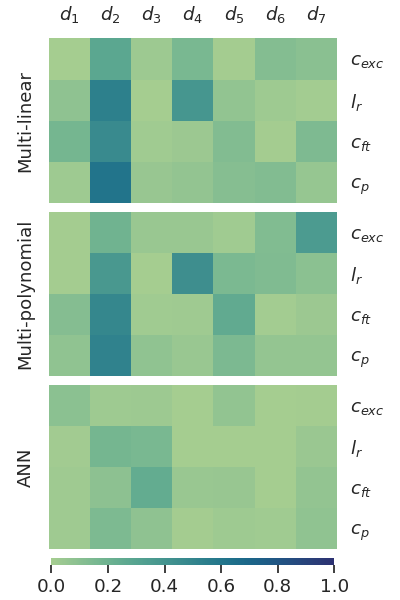
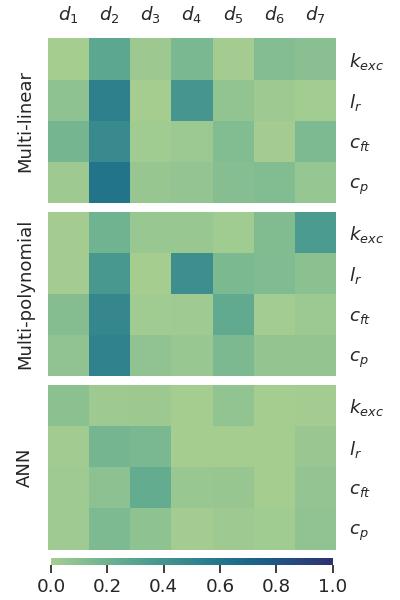
FIX: rename water exchange parameter

diff --git a/run_result-analysis.py b/run_result-analysis.py
@@ -427,7 +427,7 @@ def hydrograph(
 def param_map(
     args,
     params=["exc", "lr", "cft", "cp"],
-    math_params=[r"$c_{exc}$", r"$l_r$", r"$c_{ft}$", r"$c_p$"],
+    math_params=[r"$k_{exc}$", r"$l_r$", r"$c_{ft}$", r"$c_p$"],
     cmaps=["RdBu", "Purples", "YlGnBu", "viridis"],
     bounds=[(-20, 5), (1, 200), (1, 1000), (2, 2000)],
     figname="param_map",
@@ -574,7 +574,7 @@ def desc_map(
 def linear_cov(
     args,
     params=["exc", "lr", "cft", "cp"],
-    math_params=[r"$c_{exc}$", r"$l_r$", r"$c_{ft}$", r"$c_p$"],
+    math_params=[r"$k_{exc}$", r"$l_r$", r"$c_{ft}$", r"$c_p$"],
     desc=[
         "pente",
         "ddr",
